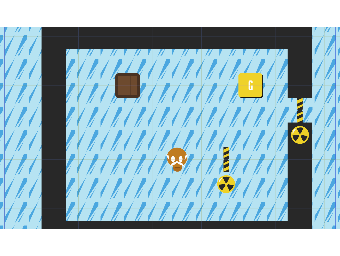
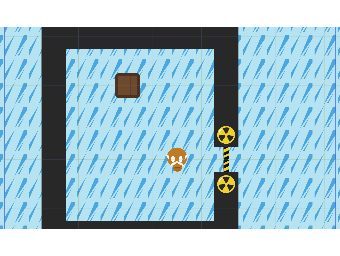
Oxygen management good ! Need UI feedback though

Changed region(s): [[0.6176, 0.0938, 0.9412, 0.9062]]

diff --git a/NOThInG/src/types/Player/oncreate.js b/NOThInG/src/types/Player/oncreate.js
@@ -4,11 +4,39 @@ MContainer(this, 4);
 this.body.tex = -1;
 
 this.MEvent.on('moveStart', () => {
+    if(this.remainingOxygen === 0) {
+        console.log("DYYYYYYYYING, breathing is not an option !!!");
+    }
 });
 this.MEvent.on('moveEnd', () => {
+    if(!this.breathing) {
+        this.remainingOxygen--;
+    }
+    // console.log("Oxygen: ", this.remainingOxygen);
     if(this.MMovable.isAntiGravity()){
         if(utils.getNextDir(this, this.MMovable.dir, 'MObstacle')) {
             ct.sound.spawn("impact") ;
         }
     }
+});
+
+// *** Oxygen ***
+this.MAX_OXYGEN = 4; 
+this.remainingOxygen = this.MAX_OXYGEN;
+this.breathing = false;
+
+this.MEvent.on("elementTaken", (el) => {
+    if (el.MElement.getType().type == EL.O.type) {
+        this.breathing = true;
+        this.remainingOxygen = this.MAX_OXYGEN;
+    }
+});
+
+this.MEvent.on("elementDropped", (el, remainingEls) => {
+    for(let obj of remainingEls) {
+        if (obj.MElement.getType().type == EL.O.type) {
+            return;
+        }
+    }
+   this.breathing = false;
 });

diff --git a/NOThInG/src/rooms/Valentin/oncreate.js b/NOThInG/src/rooms/Valentin/oncreate.js
@@ -1,5 +1,5 @@
 let player = ct.types.list.Player[0];
 let box = ct.types.list.Box[0];
-box.MContainer.addElementByCst(EL.Th);
+box.MContainer.addElementByCst(EL.O);
 box.MContainer.addElementByCst(EL.Th);
 

diff --git a/NOThInG/src/types/El_Oxygen/oncreate.js b/NOThInG/src/types/El_Oxygen/oncreate.js
@@ -1,2 +1,2 @@
 MMovable(this);
-MElement(this, EL.Th);
+MElement(this, EL.O);
